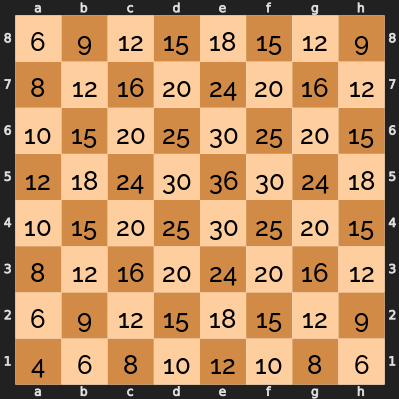
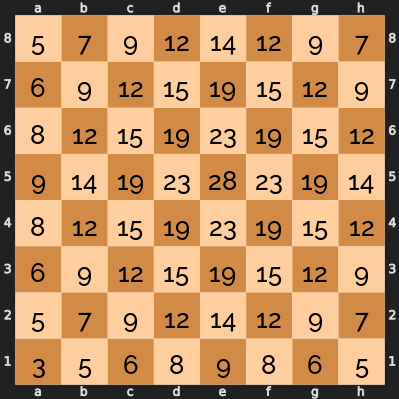
Change odds to 1000 rolls in Manna Chess, for #17.

diff --git a/raw_rules/new_rules.md b/raw_rules/new_rules.md
@@ -100,7 +100,7 @@ drop to allow a capture when you couldn't call check mate on the previous turn.
 ### Manna Strategy
 Because 7 is the most common roll with two dice, you have some control over
 where the manna will drop when you choose which corner to count from. For
-example, if you chose the bottom-left corner 1296 times, here are how many times
+example, if you chose the bottom-left corner 1000 times, here are how many times
 you would expect the manna to land in each square:
 
     . . . . . . . .
@@ -111,72 +111,72 @@ you would expect the manna to land in each square:
     . . . . . . . .
     . . . . . . . .
     . . . . . . . .
-    text: 4, 1, 1
-    text: 6, 1, 2
-    text: 8, 1, 3
-    text: 10, 1, 4
-    text: 12, 1, 5
-    text: 10, 1, 6
-    text: 8, 1, 7
-    text: 6, 1, 8
-    text: 6, 2, 1
-    text: 9, 2, 2
-    text: 12, 2, 3
-    text: 15, 2, 4
-    text: 18, 2, 5
-    text: 15, 2, 6
-    text: 12, 2, 7
-    text: 9, 2, 8
-    text: 8, 3, 1
-    text: 12, 3, 2
-    text: 16, 3, 3
-    text: 20, 3, 4
-    text: 24, 3, 5
-    text: 20, 3, 6
-    text: 16, 3, 7
-    text: 12, 3, 8
-    text: 10, 4, 1
-    text: 15, 4, 2
-    text: 20, 4, 3
-    text: 25, 4, 4
-    text: 30, 4, 5
-    text: 25, 4, 6
-    text: 20, 4, 7
-    text: 15, 4, 8
-    text: 12, 5, 1
-    text: 18, 5, 2
-    text: 24, 5, 3
-    text: 30, 5, 4
-    text: 36, 5, 5
-    text: 30, 5, 6
-    text: 24, 5, 7
-    text: 18, 5, 8
-    text: 10, 6, 1
-    text: 15, 6, 2
-    text: 20, 6, 3
-    text: 25, 6, 4
-    text: 30, 6, 5
-    text: 25, 6, 6
-    text: 20, 6, 7
-    text: 15, 6, 8
-    text: 8, 7, 1
-    text: 12, 7, 2
-    text: 16, 7, 3
-    text: 20, 7, 4
-    text: 24, 7, 5
-    text: 20, 7, 6
-    text: 16, 7, 7
-    text: 12, 7, 8
-    text: 6, 8, 1
-    text: 9, 8, 2
-    text: 12, 8, 3
-    text: 15, 8, 4
-    text: 18, 8, 5
-    text: 15, 8, 6
-    text: 12, 8, 7
-    text: 9, 8, 8
+    text: 3, 1, 1
+    text: 5, 1, 2
+    text: 6, 1, 3
+    text: 8, 1, 4
+    text: 9, 1, 5
+    text: 8, 1, 6
+    text: 6, 1, 7
+    text: 5, 1, 8
+    text: 5, 2, 1
+    text: 7, 2, 2
+    text: 9, 2, 3
+    text: 12, 2, 4
+    text: 14, 2, 5
+    text: 12, 2, 6
+    text: 9, 2, 7
+    text: 7, 2, 8
+    text: 6, 3, 1
+    text: 9, 3, 2
+    text: 12, 3, 3
+    text: 15, 3, 4
+    text: 19, 3, 5
+    text: 15, 3, 6
+    text: 12, 3, 7
+    text: 9, 3, 8
+    text: 8, 4, 1
+    text: 12, 4, 2
+    text: 15, 4, 3
+    text: 19, 4, 4
+    text: 23, 4, 5
+    text: 19, 4, 6
+    text: 15, 4, 7
+    text: 12, 4, 8
+    text: 9, 5, 1
+    text: 14, 5, 2
+    text: 19, 5, 3
+    text: 23, 5, 4
+    text: 28, 5, 5
+    text: 23, 5, 6
+    text: 19, 5, 7
+    text: 14, 5, 8
+    text: 8, 6, 1
+    text: 12, 6, 2
+    text: 15, 6, 3
+    text: 19, 6, 4
+    text: 23, 6, 5
+    text: 19, 6, 6
+    text: 15, 6, 7
+    text: 12, 6, 8
+    text: 6, 7, 1
+    text: 9, 7, 2
+    text: 12, 7, 3
+    text: 15, 7, 4
+    text: 19, 7, 5
+    text: 15, 7, 6
+    text: 12, 7, 7
+    text: 9, 7, 8
+    text: 5, 8, 1
+    text: 7, 8, 2
+    text: 9, 8, 3
+    text: 12, 8, 4
+    text: 14, 8, 5
+    text: 12, 8, 6
+    text: 9, 8, 7
+    text: 7, 8, 8
 
-You would also expect to miss the board 272 times, so you will drop a piece of
+You would also expect to miss the board 210 times, so you will add a piece of
 manna roughly 8 out of 10 times you roll.
 
 You can see that the most likely square is the centre square opposite the corner

diff --git a/docs/new_rules.md b/docs/new_rules.md
@@ -83,12 +83,12 @@ drop to allow a capture when you couldn't call check mate on the previous turn.
 ### Manna Strategy
 Because 7 is the most common roll with two dice, you have some control over
 where the manna will drop when you choose which corner to count from. For
-example, if you chose the bottom-left corner 1296 times, here are how many times
+example, if you chose the bottom-left corner 1000 times, here are how many times
 you would expect the manna to land in each square:
 
 ![Diagram](images/new_rules/diagram4.png)
 
-You would also expect to miss the board 272 times, so you will drop a piece of
+You would also expect to miss the board 210 times, so you will add a piece of
 manna roughly 8 out of 10 times you roll.
 
 You can see that the most likely square is the centre square opposite the corner
